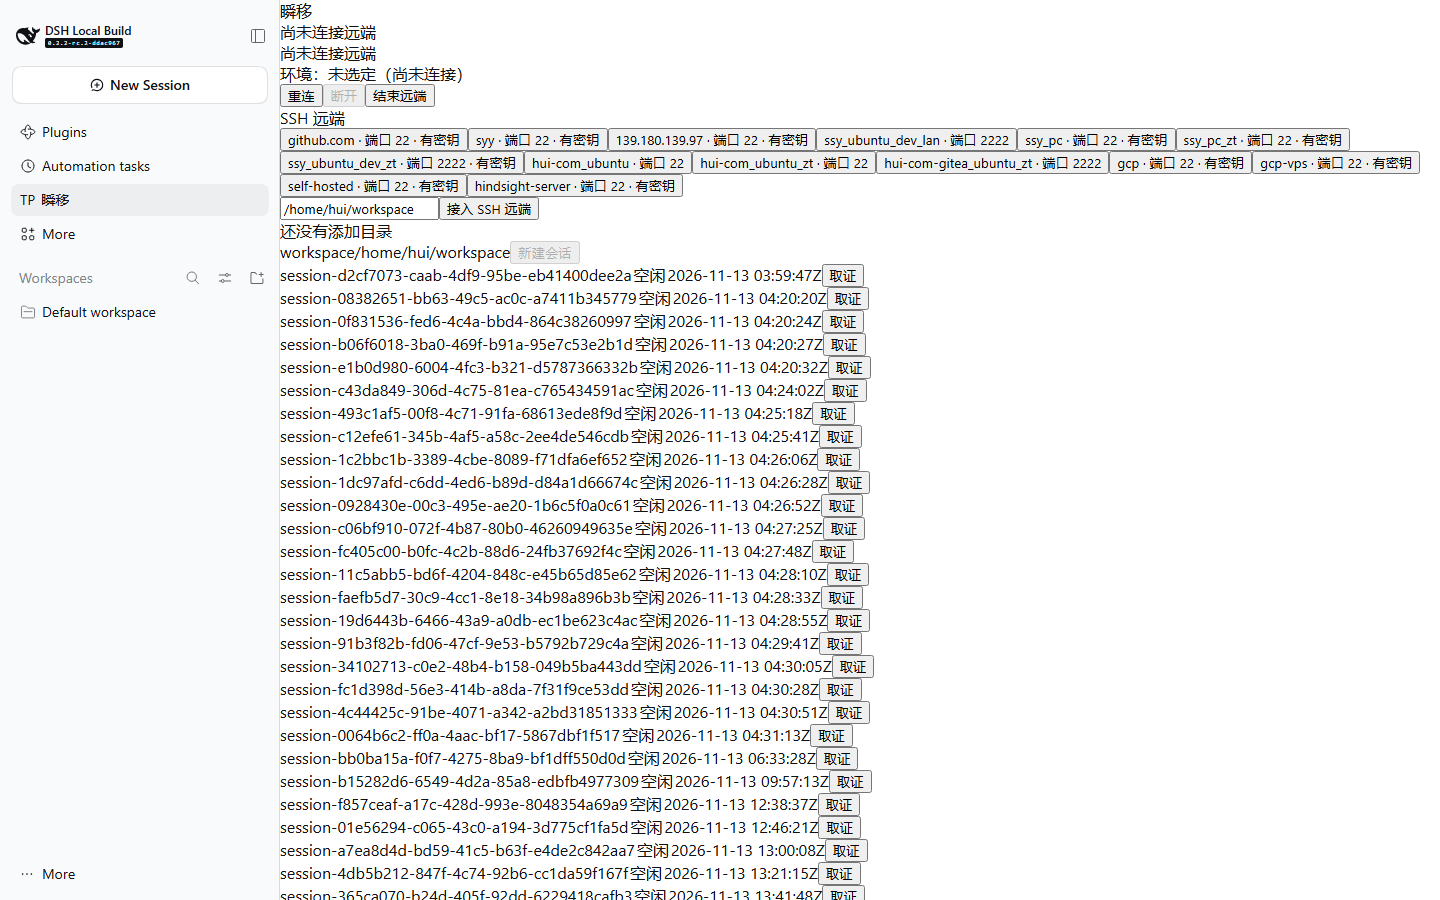
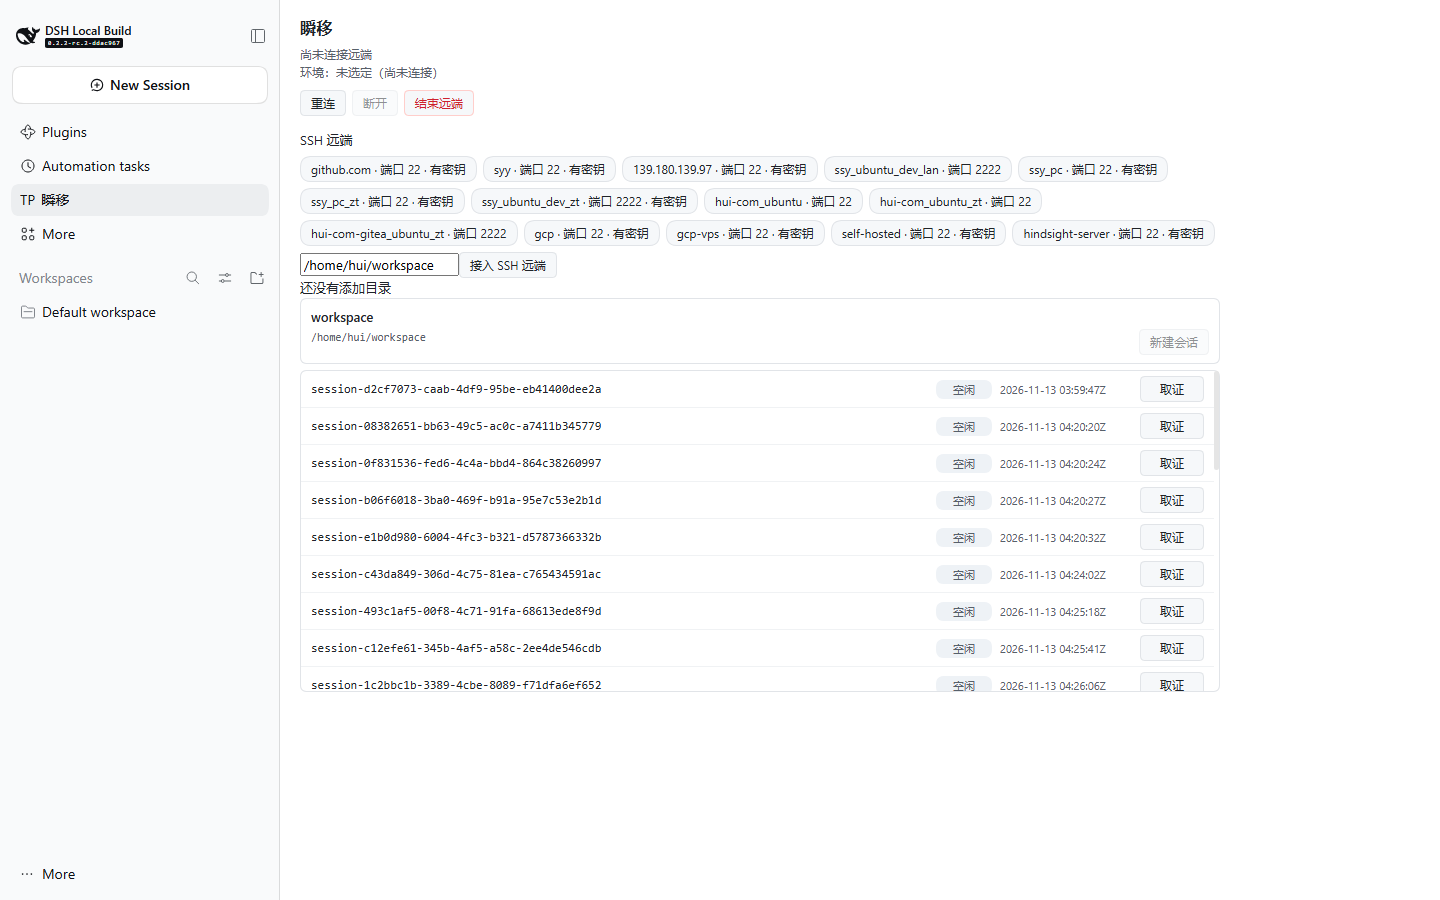
feat(client): 面板样式层——四列会话表、卡片式工作区、按钮主次（UI 第一轮）
面板原来是一堆裸 div（全文件只有 5 处内联 style），所以列不对齐、按钮无主次、列表铺满整页。

- 新增 src/client/styles.ts：PANEL_CSS + ensurePanelStyles()（幂等，<style data-dsh-remote-cr-styles>）。
  选择器全部挂在 [data-teleport=panel] 之下，不污染宿主样式；结构仍是可断言的 DOM。
- 会话行改四列 grid：ID（等宽 + 省略号）| 运行徽标（胶囊，运行中绿/空闲灰）| 时间（tabular-nums）| 取证按钮。
  列表加 max-height 320px + 滚动 + 边框。
- 工作区改卡片：标题 + 路径（等宽灰）+ 新建会话右对齐。
- 主机片改圆角胶囊、可换行；主按钮「接入 SSH 远端」用强调色；「结束远端」用危险色。
- 修状态矛盾：panel-flow 只在流程进行中渲染 —— 之前接入成功后仍显示「尚未连接远端」，
  与下面的「远端已连接 · gcp」同时出现。

门禁：client tsc Exit 0、build:client 20 modules / 87370 B；截图已用 GATE=shots 重抓。

diff --git a/src/client/styles.ts b/src/client/styles.ts
@@ -1,0 +1,119 @@
+/**
+ * 面板的**样式层**（浏览器半）。
+ *
+ * 为什么单独一层而不是往每个 `h()` 里塞 style：面板有 40+ 个 `data-teleport` 节点，
+ * 内联样式会散成 40 份互不相干的魔数；而 DSH 的插槽没有给第三方 CSS 的正式入口。
+ * 所以用一次 `<style>` 注入 + `[data-teleport='…']` 选择器：结构仍是可断言的 DOM，
+ * 视觉集中在一个文件里，改版只动这里。
+ *
+ * 选择器刻意只挂在面板根节点之下（`[data-teleport='panel'] …`），不去污染宿主样式。
+ */
+
+const COLORS = {
+  border: '#e1e4e8',
+  muted: '#57606a',
+  soft: '#f6f8fa',
+  accent: '#2f6fed',
+  danger: '#cf222e',
+  okBg: '#dafbe1',
+  okText: '#1a7f37',
+} as const
+
+export const PANEL_STYLE_ATTR = 'data-dsh-remote-cr-styles'
+
+export const PANEL_CSS = `
+[data-teleport='panel'] {
+  padding: 16px 20px 24px;
+  max-width: 920px;
+  color: #1f2328;
+  font-size: 13px;
+  line-height: 1.55;
+}
+[data-teleport='panel'] [data-teleport='panel-title'] {
+  font-size: 16px; font-weight: 650; letter-spacing: .01em; margin: 0 0 4px;
+}
+[data-teleport='panel'] [data-teleport='panel-flow'],
+[data-teleport='panel'] [data-teleport='panel-connected'],
+[data-teleport='panel'] [data-teleport='panel-env'],
+[data-teleport='panel'] [data-teleport='panel-phase'] {
+  font-size: 12px; color: ${COLORS.muted};
+}
+[data-teleport='panel'] [data-teleport='panel-connected'][data-link='connected'] { color: ${COLORS.okText}; }
+[data-teleport='panel'] [data-teleport='panel-connected'][data-link='retrying'] { color: #9a6700; }
+[data-teleport='panel'] [data-teleport='panel-connected'][data-link='offline'] { color: ${COLORS.danger}; }
+[data-teleport='panel'] [data-teleport='panel-link-actions'] { display: flex; gap: 6px; margin: 8px 0 14px; }
+
+[data-teleport='panel'] button {
+  padding: 3px 10px; font-size: 12px; line-height: 1.5;
+  border: 1px solid ${COLORS.border}; border-radius: 6px;
+  background: ${COLORS.soft}; color: inherit; cursor: pointer;
+}
+[data-teleport='panel'] button:disabled { opacity: .5; cursor: not-allowed; }
+[data-teleport='panel'] button[data-teleport='attach'],
+[data-teleport='panel'] button[data-teleport='retry'] {
+  background: ${COLORS.accent}; border-color: ${COLORS.accent}; color: #fff; font-weight: 550;
+}
+[data-teleport='panel'] button[data-teleport='stop-remote'] { color: ${COLORS.danger}; border-color: #ffcecb; }
+
+[data-teleport='panel'] [data-teleport='ssh-aliases'] { display: flex; flex-wrap: wrap; gap: 6px; margin: 6px 0; }
+[data-teleport='panel'] [data-teleport='ssh-alias'] { border-radius: 999px; }
+
+[data-teleport='panel'] [data-teleport='projected'] {
+  display: grid; grid-template-columns: minmax(0, 1fr) auto; gap: 2px 12px;
+  padding: 8px 10px; margin-bottom: 6px;
+  border: 1px solid ${COLORS.border}; border-radius: 8px;
+}
+[data-teleport='panel'] [data-teleport='projected-title'] { font-weight: 600; }
+[data-teleport='panel'] [data-teleport='projected-path'] {
+  grid-column: 1; font-size: 11px; color: ${COLORS.muted};
+  font-family: ui-monospace, SFMono-Regular, Menlo, monospace;
+  overflow: hidden; text-overflow: ellipsis; white-space: nowrap;
+}
+[data-teleport='panel'] [data-teleport='projected'] button { grid-column: 2; justify-self: end; }
+
+[data-teleport='panel'] [data-teleport='panel-sessions'] {
+  max-height: 320px; overflow-y: auto;
+  border: 1px solid ${COLORS.border}; border-radius: 8px;
+}
+[data-teleport='panel'] [data-teleport='session'] {
+  display: grid; grid-template-columns: minmax(0, 1fr) 56px 132px 64px;
+  align-items: center; gap: 8px; padding: 5px 10px;
+  border-bottom: 1px solid #f0f2f4; font-size: 12px;
+}
+[data-teleport='panel'] [data-teleport='session']:last-child { border-bottom: 0; }
+[data-teleport='panel'] [data-teleport='session']:hover { background: ${COLORS.soft}; }
+[data-teleport='panel'] [data-teleport='session-id'] {
+  overflow: hidden; text-overflow: ellipsis; white-space: nowrap;
+  font-family: ui-monospace, SFMono-Regular, Menlo, monospace;
+}
+[data-teleport='panel'] [data-teleport='session-running'] {
+  font-size: 11px; text-align: center;
+  border-radius: 999px; padding: 1px 0; background: #eef2f6; color: ${COLORS.muted};
+}
+[data-teleport='panel'] [data-teleport='session-running'][data-running='true'] {
+  background: ${COLORS.okBg}; color: ${COLORS.okText};
+}
+[data-teleport='panel'] [data-teleport='session-updated'] {
+  color: ${COLORS.muted}; font-size: 11px; font-variant-numeric: tabular-nums;
+}
+
+[data-teleport='panel'] [data-teleport='panel-sessions-empty'],
+[data-teleport='panel'] [data-teleport='panel-projected-empty'] {
+  padding: 14px 10px; text-align: center; font-size: 12px; color: ${COLORS.muted};
+  border: 1px dashed ${COLORS.border}; border-radius: 8px;
+}
+[data-teleport='panel'] pre[data-teleport='report'],
+[data-teleport='panel'] pre[data-teleport='probe-report'] {
+  background: ${COLORS.soft}; border: 1px solid ${COLORS.border};
+  border-radius: 6px; padding: 8px; overflow-x: auto;
+}
+`
+
+/** 幂等注入：多次挂载只留一份 `<style>`（DSH 的面板可能被反复卸载/挂载）。 */
+export function ensurePanelStyles(doc: Document = document): void {
+  if (doc.querySelector('style[' + PANEL_STYLE_ATTR + ']') !== null) return
+  const style = doc.createElement('style')
+  style.setAttribute(PANEL_STYLE_ATTR, '')
+  style.textContent = PANEL_CSS
+  doc.head.appendChild(style)
+}

diff --git a/src/client/components.ts b/src/client/components.ts
@@ -988,7 +988,9 @@ export function TeleportPanel(): unknown {
     'div',
     { 'data-teleport': 'panel' },
     h('div', { 'data-teleport': 'panel-title' }, '瞬移'),
-    h('div', { 'data-teleport': 'panel-flow' }, summary),
+    // 只有流程真的在进行时才显示它：`flow` 是「添加工作区」的状态，接入成功后它是 undefined，
+    // 常显会让面板同时出现「尚未连接远端」和「远端已连接 · gcp」（截图里就是这么矛盾的）。
+    flow === undefined ? null : h('div', { 'data-teleport': 'panel-flow' }, summary),
     flow === undefined ? null : h('div', { 'data-teleport': 'panel-phase' }, FLOW_PHASE_LABELS[flow.phase]),
     isTerminal(state) ? h('div', { 'data-teleport': 'panel-terminal' }, state.step) : null,
     h('div', { 'data-teleport': 'panel-connected', 'data-link': snapshot?.link ?? 'unknown' }, linkLine(snapshot)),

diff --git a/src/client/plugin.ts b/src/client/plugin.ts
@@ -13,6 +13,7 @@ import { DirectoryFlow, TeleportIcon, TeleportPanel } from './components.ts'
 import type { SlotRecord } from './diagnostics.ts'
 import { HALF, describeSelf } from './half.ts'
 import { registerSlots, type RegistrationContext } from './registration.ts'
+import { ensurePanelStyles } from './styles.ts'
 import { wizardStore } from './wizard-store.ts'
 
 /** 依赖的宿主服务。`layout` 让面板进得了主区，`slots` 是注册入口。 */
@@ -35,6 +36,8 @@ function stringOption(options: Record<string, unknown>, name: string): string | 
 }
 
 export function apply(ctx: ClientContext): void {
+  // 幂等：样式只挂一次；插槽没有给第三方 CSS 的入口，所以用 <style> + data-teleport 选择器。
+  ensurePanelStyles()
   const mounted = registerSlots(ctx, {
     panel: TeleportPanel,
     icon: TeleportIcon,
